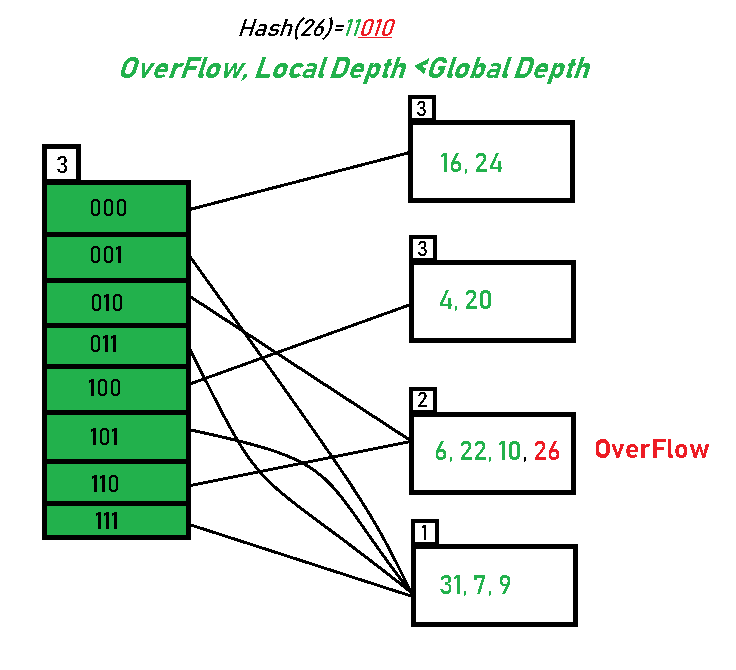
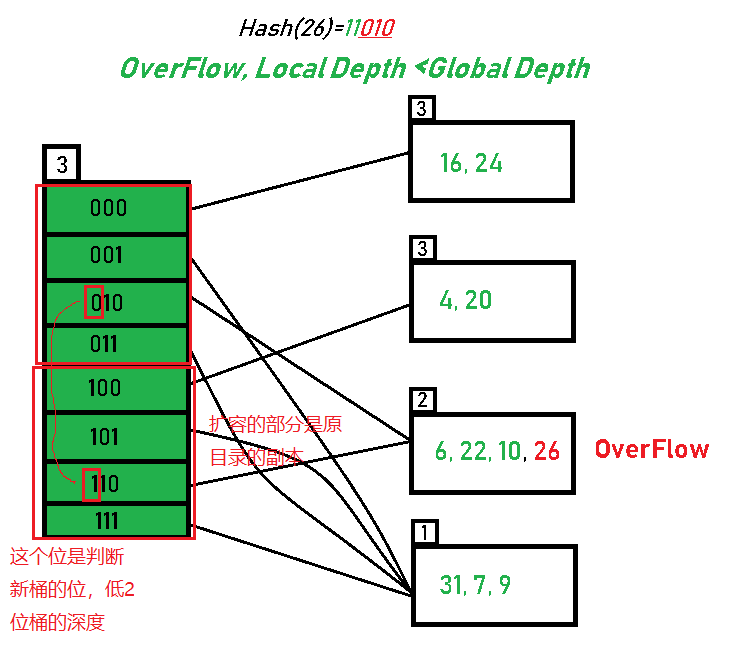
extendible hash tabel

Changed region(s): [[0.0, 0.2687, 0.4688, 0.9552], [0.0938, 0.6866, 0.1562, 0.7463], [0.0938, 0.4179, 0.1562, 0.4776]]

diff --git a/CMU15445/project知识点/2022fall_project1.md b/CMU15445/project知识点/2022fall_project1.md
@@ -13,18 +13,15 @@
 ### 可扩展哈希主要原理
 参考：https://www.geeksforgeeks.org/extendible-hashing-dynamic-approach-to-dbms/ <br>
 * 可扩展哈希的存储原理：使用分裂桶进行数据的存储
-    * 目录：以指针的形式存储桶的地址。为每个目录分配一个 ID，每次进行扩容时，该 ID 可能会更改。其本质就等同于一个目录对应着所有 `hash` 值相同的数据，使用目录所谓索引
-    * 桶：具体存储数据的容器，`hash` 值相同的数据存储到一个桶中，但是桶本身有深度（存储数据的容量），超出深度就需要扩容，然后对桶内数据进行重分配，因为目录扩容的时候会导致 hash 方案的改变
-    * 深度：用于扩容和 `hash` 计算
-      * 全局深度：用来对目录进行分配，`hash` 策略是数据转换成二进制后的 **后（全局深度[2]位）**
-      * 局部深度：表示桶的个数，是否扩容
-    * 扩容有两种主要的情况：
-      * 1.桶溢出，同时局部深度（即扩容过的桶的个数）== 全局深度，就需要对目录进行扩容，目录扩容，对目录的 `hash` 策略进行更改：全局深度+1，`hash` 位数+1，然后对扩容桶的内容重新进行 hash，桶的数目也+1（即local depth），更改目录指向。
-      * 2.桶溢出，同时局部深度 < 全局深度，只需要增加一个桶，更改目录指向即可，然后对数据进行重 `hash`
-      * 注意事项：没有溢出的桶，即便目录进行了扩容，扩容后的目录也仍旧指向原来的桶
-
-<div style="text-align: center"><img height="500" src="H:\Github\CPPStudy\CMU15445\src\img.png" width="500"/></div>
-
+  * 目录：以指针的形式存储桶的地址。为每个目录分配一个 ID，每次进行扩容时，该 ID 可能会更改。其本质就等同于一个目录对应着所有 `hash` 值相同的数据，使用目录所谓索引
+  * 桶：具体存储数据的容器，`hash` 值相同的数据存储到一个桶中，但是桶本身有深度（存储数据的容量），超出深度就需要扩容，然后对桶内数据进行重分配，因为目录扩容的时候会导致 hash 方案的改变
+  * 深度：用于扩容和 `hash` 计算
+    * 全局深度：用来对目录进行分配，`hash` 策略是数据使用`hash`转换成二进制后的 **后（全局深度[2]位）**
+    * 局部深度：表示桶的个数，是否扩容
+  * 扩容有两种主要的情况：
+    * 1.桶溢出，同时局部深度（即扩容过的桶的个数）== 全局深度，就需要对目录进行扩容，目录扩容，对目录的 `hash` 策略进行更改：全局深度+1，`hash` 位数+1，然后对扩容桶的内容重新进行 hash，桶的数目也+1（即local depth），更改目录指向。
+    * 2.桶溢出，同时局部深度 < 全局深度，只需要增加一个桶，更改目录指向即可，然后对数据进行重 `hash`
+    * 注意事项：没有溢出的桶，即便目录进行了扩容，扩容后的目录也仍旧指向原来的桶,即扩容后的后半部分目录是原目录的副本
 * 可扩展哈希操作流程：
   1. 分析数据类型
   2. 转换成而进行，通过 `global depth` 对数据进行 `hash` 操作
@@ -32,11 +29,24 @@
   4. 根据目录进入桶
   5. 分析 `global depth` 与 桶的 `local depth`,查看是否需要扩容，如果需要扩容，就判断上述两种情况是哪一种
   6. 根据溢出的问题做两种操作，最后对溢出桶进行在重 `hash` 操作
-  
+* <img height="600" src="H:\Github\CPPStudy\CMU15445\src\img.png" width="600"/>
+### 实现中需要解决的问题
 * 需要解决`目录`与`桶`之间对应关系如何存储
+    * 不需要映射，只需要在扩容的时候，桶扩容后的指针，仍旧赋值给未扩容的指针，如果遇到扩容的桶，则重新生成一个桶，否则用之前的
+    * `i + bucket_capcity = i` 即使用扩容前对应的桶
 * 需要解决扩容的时候，`目录`与`桶`之间对应的关系如何更新
+    * 目录的指向问题，当目录扩容后，不需要进行桶扩容的目录，在扩容后仍旧需要指向原来的桶-->通过对目录的桶指针进行复制，扩容后的多出的一倍的目录为扩容前的副本，具有相同的指向
+    * 同时构建两个桶，分别对应需要更新的两个目录，同时将两个目录对应的桶替换（替换前需要将原桶的数据使用新的`Index`进行重分配）
 * 需要解决如何根据`key`获取桶的`index`
-
+    * `IndexOf`函数会获取桶的`index`
+* `ExtendibleHashTable`的`Insert`为主要实现内容，具体实现流程如下
+  * 判断key所在目录的桶是否已满，如果已满
+    * 判断是否需要目录扩容：全局深度 == 局部深度，目录扩容的要点是扩容后的目录为扩容前目录的副本，通过复制桶的共享指针即可完成
+    * 桶扩容是必须的，同扩容可以采取新建两个桶，更改两个目录指针进行更改，也可以单独生成一个桶，更改`1...`对应的桶即可(...表示目录对应桶深度的最低几位，桶的深度一方面也表示了当前目录的低多少位已经有桶)。前者如果桶深度高，会占用很多空间，后者有增删桶元素的开销
+      * 新建两个桶，然后将原桶的数据进行重分配到这两个新桶。（使用一个区分新桶最高位的`mask`，`0001000`，来与数据相与，来获取新数据应该放在哪个桶中，因为低几位都是相同的）
+      * 分配完数据之后，去目录中找这个桶，将新的桶进行替换（使用目录的`index & mask`来区分应该替换哪个桶）
+  * 扩容完成之后，还需要考虑`key`已经存在的情况，已经存在就更改`value`，不存在就`insert`
+* `Bucket`是不需要考虑对里面的数据个数进行更改的，因为`IsFull`是获取的`list`的`size`
 ## LRU-K 替换策略
 ## 缓冲池管理器实例
 
@@ -48,6 +58,6 @@
     * bucket 使用vector 存储，因此目录即使用下表来进行获取：`hash` 结果与 `下标` 相关
     * 初始化的时候，要实例化 bucket
 * `table->find(key, result)` 会将结果写入 `result`
-* `table->GetLocalDepth(0)` `bucket` 是使用 `vector` 存储的，这个方法会返回下表为 `0` 的 `bucket` 的 `local depth`
+* `table->GetLocalDepth(0)` `bucket` 是使用 `vector` 存储的，这个方法会返回下标为 `0` 的 `bucket` 的 `local depth`
 * `table->Remove(8)` `remove` `key`，返回 `true` 或者 `false`
-* 
+* `table->Find(9, result)` 会将查到的`key`对应的`value`复制到`result`中，所以在写`Find`的时候要注意不仅仅是`return true`的部分
